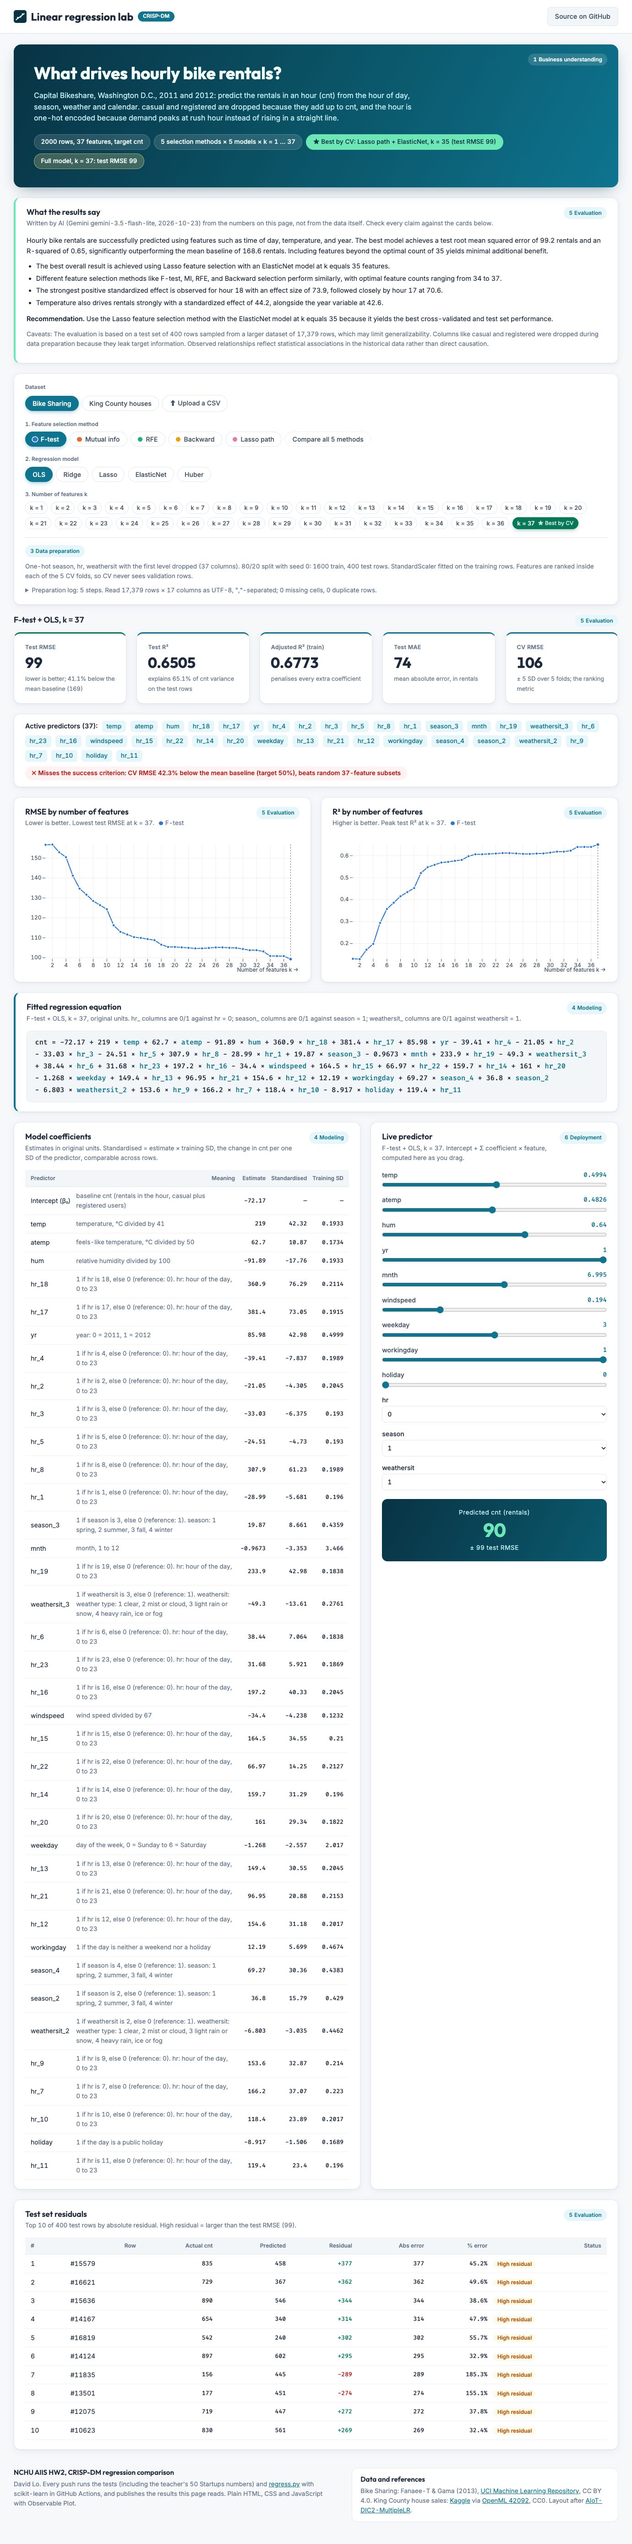
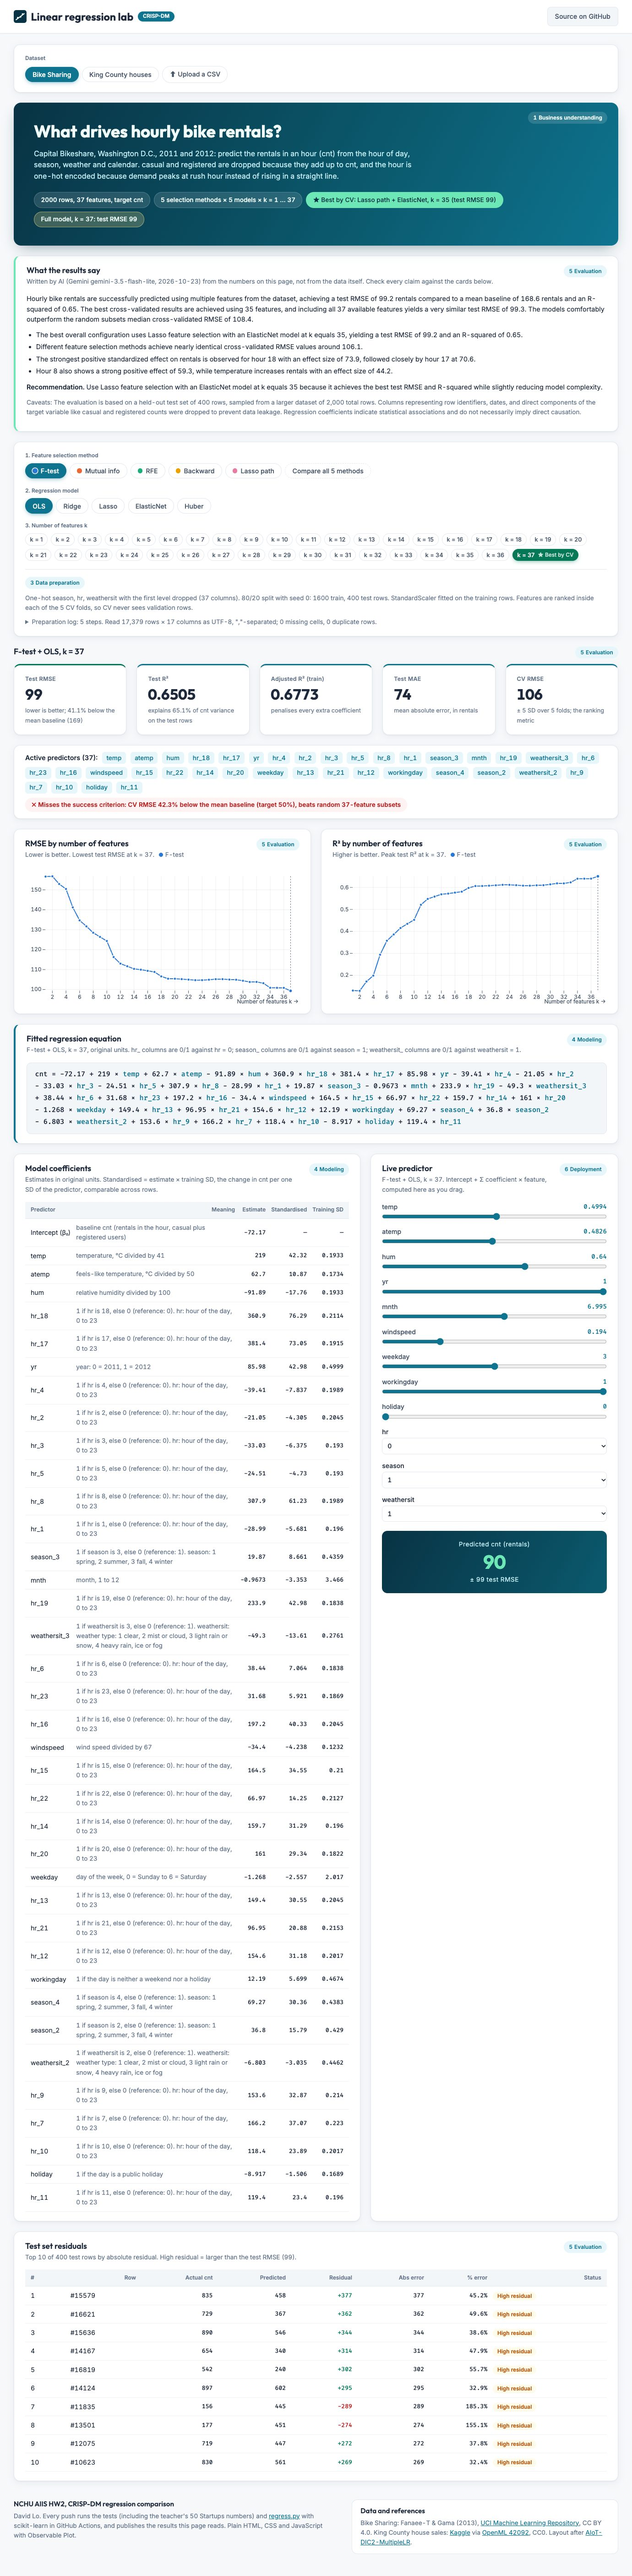
feat: read-only column plan and spinners on every wait

diff --git a/web/app.js b/web/app.js
@@ -3,7 +3,6 @@ import * as Plot from "https://cdn.jsdelivr.net/npm/@observablehq/plot@0.6.17/+e
 const METHODS = ["F-test", "MI", "RFE", "Backward", "Lasso"];
 const MODELS = ["OLS", "Ridge", "Lasso", "ElasticNet", "Huber"];
 const ML = { "F-test": "F-test", MI: "Mutual info", RFE: "RFE", Backward: "Backward", Lasso: "Lasso path" };
-const ACTIONS = ["numeric", "category", "date", "extract-number", "drop"];   // regress.ACTIONS
 // the Gemini proxy (proxy/worker.mjs); the production URL is known after `wrangler deploy`
 const PROXY = ["localhost", "127.0.0.1"].includes(location.hostname) ? "http://127.0.0.1:8787" : "https://aiot-dic-hw2-proxy.davidlo3917.workers.dev";
 const S = { ds: null, base: {}, method: "F-test", model: "OLS", k: null, whatif: {} };
@@ -78,6 +77,7 @@ function renderSummary(d) {
   const s = d.summary;
   $("summary").hidden = !s;
   if (!s) return;
+  $("sumNote").classList.toggle("busy", !!s.pending);
   $("sumNote").textContent = s.pending ? "Asking the AI (Gemini) to summarise the results…" : s.error ? `AI summary unavailable (${s.error}).`
     : `Written by AI (Gemini ${s.model}${s.date ? `, ${s.date}` : ""}) from the numbers on this page, not from the data itself. Check every claim against the cards below.`;
   $("sumBody").innerHTML = s.summary ? `<p>${esc(s.summary)}</p><ul>${s.findings.map((f) => `<li>${esc(f)}</li>`).join("")}</ul><p><b>Recommendation.</b> ${esc(s.recommendation)}</p>${s.caveats.length ? `<p class="muted">Caveats: ${s.caveats.map(esc).join(" ")}</p>` : ""}` : "";
@@ -165,7 +165,7 @@ function call(msg, transfer = [], onProgress) {
   if (!worker) {
     worker = new Worker("worker.js", { type: "module" });
     worker.onmessage = ({ data: m }) => {
-      if (m.type === "status") $("upStatus").textContent = m.text;
+      if (m.type === "status") say(m.text, true);
       else if (m.type === "progress") jobs[0]?.onProgress?.(m);
       else if (m.type === "error") jobs.shift()?.reject(Object.assign(new Error(m.message), { data: m.data }));
       else jobs.shift()?.resolve(m);
@@ -179,7 +179,8 @@ function drop(why) {   // Cancel, or a worker that could not load: a fresh worke
   worker = null;
   jobs.splice(0).forEach((j) => j.reject(new Error(why)));
 }
-const showErr = (e) => { $("upStatus").textContent = ""; $("upError").textContent = e.message; };
+const say = (text, busy = false) => { $("upStatus").textContent = text; $("upStatus").classList.toggle("busy", busy); };
+const showErr = (e) => { say(""); $("upError").textContent = e.message; };
 const sepName = (s) => (s === "\t" ? "tab" : `"${s}"`);
 // every non-target column gets an action; a column that just stopped being the target is numeric by definition
 const norm = (plan) => ({ target: plan.target, columns: Object.fromEntries(U.resp.profile.filter((p) => p.name !== plan.target).map((p) => [p.name, plan.columns[p.name] || { action: "numeric", reason: "numbers" }])) });
@@ -187,19 +188,19 @@ const fromSource = (src) => norm(src === "ai" ? { target: U.ai.plan.target || U.
 
 function openUpload() {
   $("upload").hidden = false;
-  if (!U.file) call({ type: "boot" }).then(() => { if (!U.file) $("upStatus").textContent = "Python is ready. Choose a CSV."; }).catch(showErr);   // download while the user browses for the file
+  if (!U.file) call({ type: "boot" }).then(() => { if (!U.file) say("Python is ready. Choose a CSV."); }).catch(showErr);   // download while the user browses for the file
 }
 async function planFile(file) {
   if (!file) return;
   Object.assign(U, { file, resp: null, ai: null, source: "rules", plan: null, edited: false });
-  $("upError").textContent = ""; $("planBox").hidden = true; $("upStatus").textContent = `Reading ${file.name}…`;
+  $("upError").textContent = ""; $("planBox").hidden = true; say(`Reading ${file.name}…`, true);
   try {
     const buf = await file.arrayBuffer();
     const { json } = await call({ type: "plan", file: buf }, [buf]);
     if (U.file !== file) return;   // another file was picked meanwhile
     U.resp = JSON.parse(json); U.rules = U.resp.plan; U.plan = norm(U.rules);
   } catch (e) { if (U.file === file) showErr(e); return; }
-  $("upStatus").textContent = ""; $("planBox").hidden = false;
+  say(""); $("planBox").hidden = false;
   renderPlan();
   askAI(file);
 }
@@ -232,14 +233,15 @@ function renderPlan() {
   const n = resp.profile.filter((p) => changed(p.name)).length, cols = `${n} column${n === 1 ? "" : "s"}`;
   $("source").hidden = !hasAI;
   if (hasAI) seg($("source"), [["rules", "Rule-based"], ["ai", `✦ AI suggestion (${esc(ai.model)})`]], U.source, (v) => { U.source = v; U.edited = false; U.plan = fromSource(v); renderPlan(); });
+  $("aiNote").classList.toggle("busy", !ai);
   $("aiNote").textContent = ai?.error ? `AI unavailable (${ai.error}); the rule-based plan is used.`
     : !ai ? "Asking the AI (Gemini) to review the plan…"
-    : U.source === "ai" ? `The AI ${n ? `changed ${cols} (highlighted)` : "kept every rule-based choice"}${U.edited ? ", then you edited it" : ""}. It is a suggestion: check it before running.`
-    : n ? `Rule-based plan with your edits to ${cols} (highlighted).` : "Rule-based plan.";
+    : U.source === "ai" ? `The AI ${n ? `changed ${cols} (highlighted)` : "kept every rule-based choice"}. Switch to Rule-based if it looks wrong.`
+    : n ? `Rule-based plan; the target differs from the rules' pick (highlighted).` : "Rule-based plan.";
   $("plan").innerHTML = `<table><thead><tr>${["Column", "Type", "Missing", "Distinct", "Sample values", "Action", "Why"].map((h) => `<th>${h}</th>`).join("")}</tr></thead><tbody>${resp.profile.map((p) => {
     const c = p.name, a = plan.columns[c], w = hasAI && ai.spec.descriptions[c];
     const act = c === plan.target ? [td(`<span class="st ok">target</span>`, "txt"), td("the column to predict", "txt muted")]
-      : [td(`<select data-c="${esc(c)}" aria-label="action for ${esc(c)}">${ACTIONS.map((x) => `<option ${x === a.action ? "selected" : ""}>${x}</option>`).join("")}</select>${a.action === "category" ? `<label>keep<input type="number" data-c="${esc(c)}" min="2" max="100" placeholder="10" value="${a.levels ?? ""}" title="how many of the most common labels to keep; the rest are grouped as Other">labels</label>` : ""}`, "txt"), td(esc(a.reason), "txt muted")];
+      : [td(`${a.action}${a.levels ? ` <small>${a.levels} labels</small>` : ""}`, "txt"), td(esc(a.reason), "txt muted")];
     return `<tr class="${changed(c) ? "changed" : ""}">${[td(`${esc(c)}${w ? `<small>${esc(w)}</small>` : ""}`, "txt"), td(p.type, "txt"), td(pct(p.missing)), td(p.unique.toLocaleString("en-US")), td(p.samples.map(esc).join(", "), "txt samples"), ...act].join("")}</tr>`;
   }).join("")}</tbody></table>`;
 }
@@ -261,7 +263,7 @@ async function runUpload() {
     $("runNote").textContent = `Done in ${secs.toFixed(1)} s. The results live in this tab only and replace any earlier upload.`;
     document.querySelector(".hero").scrollIntoView({ behavior: "smooth" });   // the upload panel sits above the results
   } catch (e) { $("runNote").textContent = ""; showErr(e); }
-  finally { $("run").disabled = false; $("cancel").hidden = true; $("prog").hidden = true; $("upStatus").textContent = ""; }
+  finally { $("run").disabled = false; $("cancel").hidden = true; $("prog").hidden = true; say(""); }
 }
 $("uploadBtn").onclick = () => { openUpload(); $("file").click(); };
 $("pick").onclick = () => $("file").click();
@@ -270,14 +272,6 @@ $("closeUp").onclick = () => { $("upload").hidden = true; };
 $("run").onclick = runUpload;
 $("cancel").onclick = () => drop("Cancelled. The Python runtime is reloaded on the next run.");
 $("target").onchange = (e) => { U.edited = true; U.plan = norm({ ...U.plan, target: e.target.value }); renderPlan(); };
-$("plan").onchange = (e) => {
-  const el = e.target, c = el.dataset.c;
-  if (!c) return;
-  U.edited = true;
-  if (el.tagName === "SELECT") { U.plan.columns[c] = { action: el.value, reason: "set by you" }; renderPlan(); }
-  else if (+el.value >= 2 && +el.value <= 100) U.plan.columns[c].levels = +el.value;
-  else delete U.plan.columns[c].levels;
-};
 $("upload").ondragover = (e) => { e.preventDefault(); $("drop").classList.add("over"); };
 $("upload").ondragleave = () => $("drop").classList.remove("over");
 $("upload").ondrop = (e) => { e.preventDefault(); $("drop").classList.remove("over"); planFile(e.dataTransfer.files[0]); };

diff --git a/web/style.css b/web/style.css
@@ -40,6 +40,9 @@ main.wrap { display: grid; gap: 22px; padding-top: 24px; padding-bottom: 24px; }
 .status { margin: 0; color: var(--ink-3); }
 .status:empty { display: none; }
 .status.error { color: var(--bad); }
+.busy::before { content: ""; display: inline-block; width: .8em; height: .8em; margin-right: .45em; vertical-align: -.08em; border: 2px solid var(--accent-soft); border-top-color: var(--accent); border-radius: 50%; animation: spin .8s linear infinite; }
+@keyframes spin { to { transform: rotate(360deg); } }
+@media (prefers-reduced-motion: reduce) { .busy::before { animation: none; border-top-color: var(--accent-soft); } }
 
 /* hero */
 .hero { scroll-margin-top: 22px; position: relative; border-radius: 16px; padding: 40px 44px; color: var(--hero-ink); background: linear-gradient(118deg, var(--accent-deep) 0%, #0b5a6e 60%, var(--accent) 100%); box-shadow: 0 12px 32px -12px rgb(8 51 68 / .5); }
@@ -134,11 +137,11 @@ footer .refs { background: var(--card); border: 1px solid var(--rule); border-ra
 .upload .status { margin-top: .8rem; }
 .plan-head { display: flex; flex-wrap: wrap; gap: 1rem 2.5rem; align-items: flex-start; margin: 1.1rem 0; }
 .plan-head .muted { margin-top: .4rem; max-width: 40rem; }
-.plan-head select, .plan select, .plan input { font: inherit; font-size: .85rem; padding: .3rem .4rem; border: 1px solid var(--rule); border-radius: 8px; background: var(--card); color: var(--ink); }
-.plan input[type=number] { width: 4.2rem; margin: 0 .3rem 0 .5rem; }
+.plan-head select { font: inherit; font-size: .85rem; padding: .3rem .4rem; border: 1px solid var(--rule); border-radius: 8px; background: var(--card); color: var(--ink); }
 .plan td { white-space: normal; vertical-align: top; }
 .plan td.samples { font-family: var(--mono); font-size: .78rem; color: var(--ink-3); max-width: 16rem; }
-.plan td small { display: block; color: var(--ink-3); font-weight: 400; max-width: 16rem; }
+.plan td small { color: var(--ink-3); font-weight: 400; }
+.plan td:first-child small { display: block; max-width: 16rem; }
 .plan tr.changed td { background: var(--warn-soft); }
 .run-row { display: flex; flex-wrap: wrap; gap: .75rem; align-items: center; margin-top: 1rem; }
 .run-row progress { flex: 1 1 12rem; height: .6rem; accent-color: var(--accent); }

diff --git a/web/index.html b/web/index.html
@@ -21,7 +21,7 @@
   </header>
 
   <main class="wrap">
-    <p class="status" id="status" role="status">Loading results…</p>
+    <p class="status busy" id="status" role="status">Loading results…</p>
 
     <section class="card">
       <div class="ctl"><span class="lbl">Dataset</span><div class="row"><div class="seg" id="ds" role="radiogroup" aria-label="Dataset"></div><button type="button" class="btn" id="uploadBtn">⬆ Upload a CSV</button><input type="file" id="file" accept=".csv,.tsv,.txt,text/csv,text/tab-separated-values" hidden></div></div>
